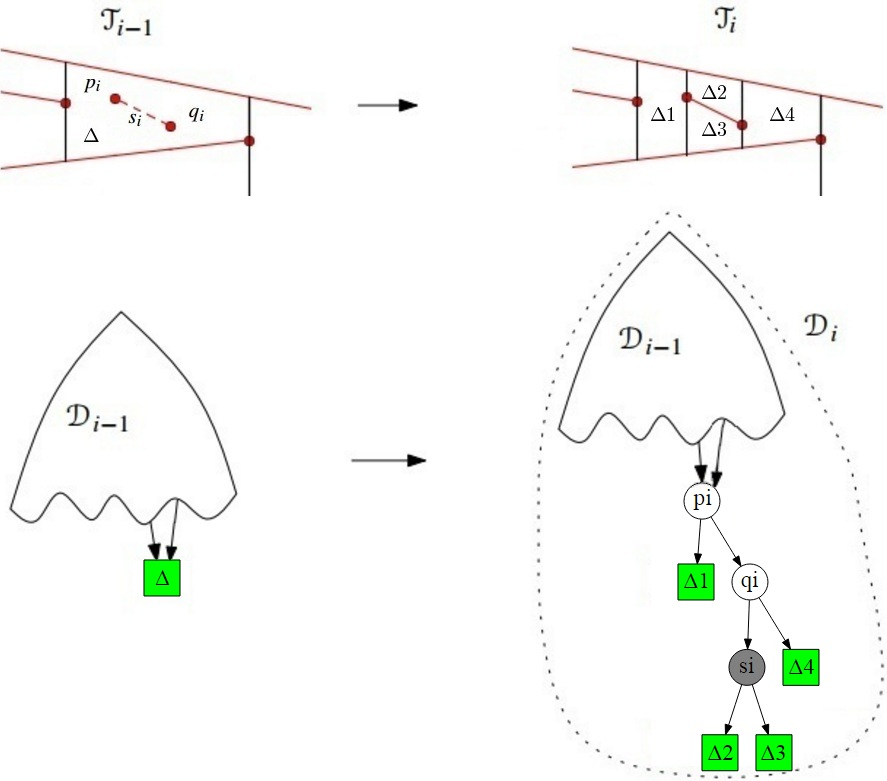
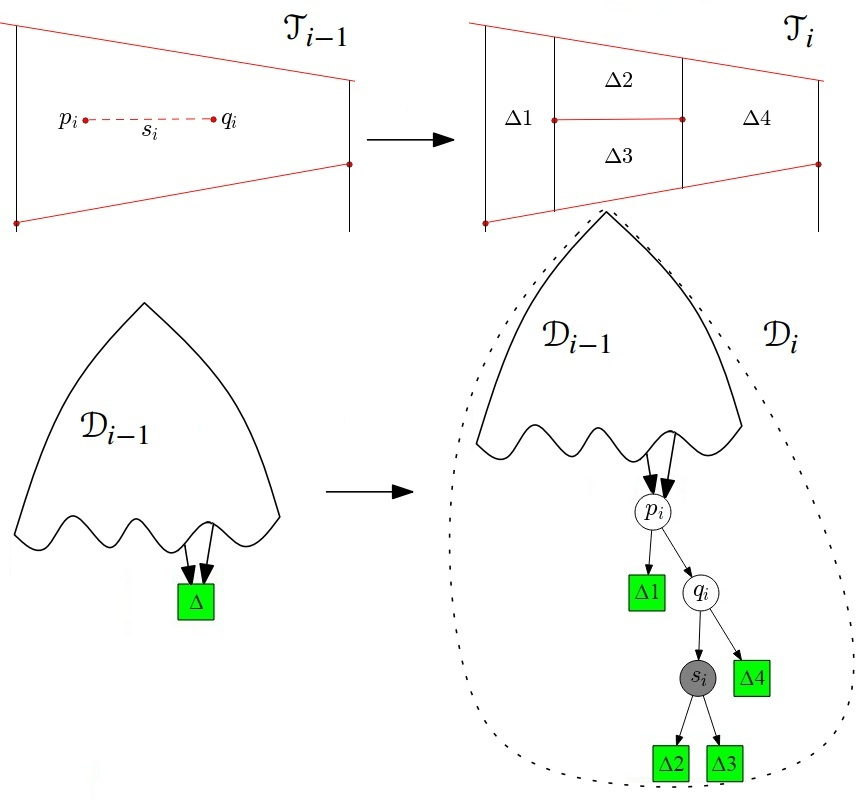
- details view fixed (for all browsers, i hope) - quality of example picture improved - markdown for slideshow added

diff --git a/11_trapezoidal_map/style.css b/11_trapezoidal_map/style.css
@@ -1,0 +1,37 @@
+<style>
+#my_p{
+	padding-left:40px
+}
+
+#my_span {
+	cursor: pointer;
+	border-bottom: 1px dashed #000080;
+	border-color: #00f;
+	color: #00f
+}
+
+details summary::-webkit-details-marker {
+  color: #fff;
+  font-size: 500%;
+}
+
+summary::-webkit-details-marker {
+  display: none
+}
+summary:after {
+  content: "+"; 
+  color: #000000; 
+  float: left; 
+  font-size: 1em; 
+  font-weight: bold; 
+  margin: 0px 10px 0 0; 
+  padding: 0; 
+  text-align: center; 
+  width: 18px;
+  height: 18px;
+}
+details[open] summary:after {
+  color: #000000; 
+  content: "-";
+}
+</style>

diff --git a/11_trapezoidal_map/examples.py b/11_trapezoidal_map/examples.py
@@ -150,8 +150,6 @@ def OnClick(event):
             figure.clear()
             plt.axis('off')
             plt.margins(0.01)
-            plt.plot(leftPoint.coord[0], leftPoint.coord[1], 'ro')
-            plt.plot(rightPoint.coord[0], rightPoint.coord[1], 'ro')
             plt.plot([0, 0, 500, 500, 0], [0, 500, 500, 0, 0], 'g--')
             # Перерисуем карту
             for tr in tmap.tr:
@@ -162,4 +160,6 @@ def OnClick(event):
                     plt.plot([data[2][0], data[3][0]], [data[2][1], data[3][1]], 'k')
             for segment in tmap.segments:
                 plt.plot([segment.p[0], segment.q[0]], [segment.p[1], segment.q[1]], 'r')
+            plt.plot(leftPoint.coord[0], leftPoint.coord[1], 'ro')
+            plt.plot(rightPoint.coord[0], rightPoint.coord[1], 'ro')
             leftPoint = None
